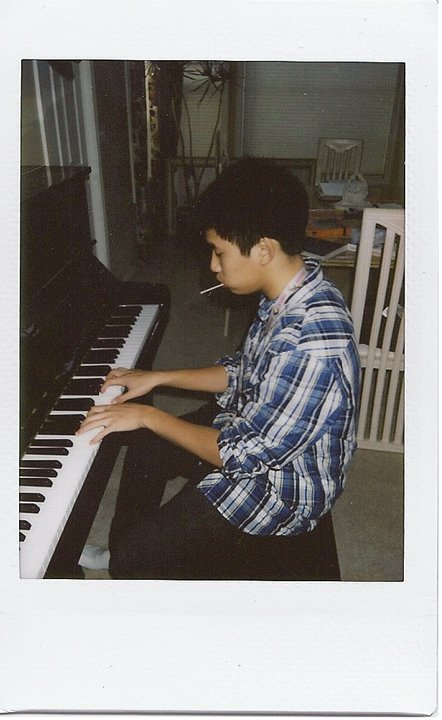
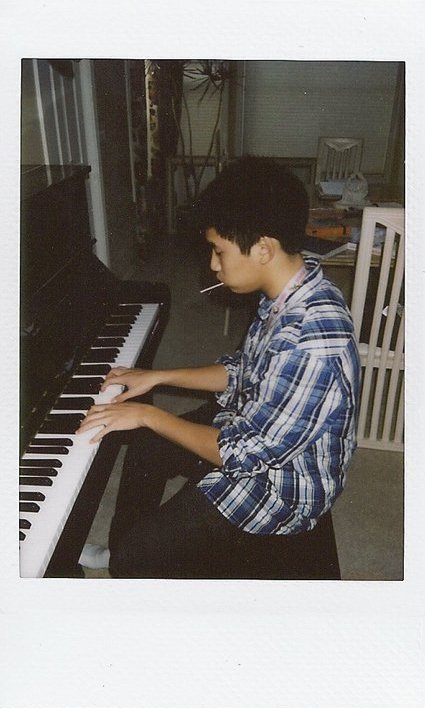
cropped profile picture

diff --git a/index.html b/index.html
@@ -116,7 +116,7 @@
       </div>
     </div>
 
-      <img alt="" class="avatar width-full rounded-2" height="230" src="https://avatars1.githubusercontent.com/u/6045301?v=3&amp;s=460" width="230" />
+      <img alt="" class="avatar width-full rounded-2" height="383" src="profile.jpg" width="230" />
 
 
 <div class="vcard-names-container py-3 js-sticky js-user-profile-sticky-fields ">
